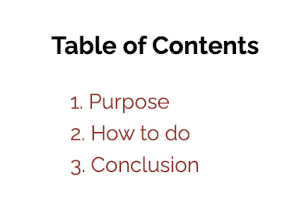
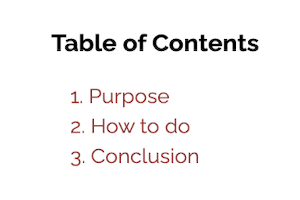
blog list

diff --git a/src/app/lib/component/blog-list/blog-list.component.scss b/src/app/lib/component/blog-list/blog-list.component.scss
@@ -1,39 +1,39 @@
 #list {
-    display: flex;
-    flex-direction: column;
-
     .item {
         margin-top: 2vw;
         display: flex;
         flex-direction: row;
-        height: 200px;
         background-color: var(--mat-sys-background);
         border-style: dashed;
         border-color: #e5e7eb;
         border-radius: 10px;
 
-        div:first-child {
-            display: flex;
-            width: 300px;
-            margin: 0px;
-            img {
-                border-radius: 10px;
-                width: 300px;
-                height: 100%;
-                object-fit: fill;
-            }
+        @media (max-width: 425px) {
+            flex-direction: column;
+            padding-top: 15px;
         }
 
-        div:nth-child(2) {
+        div:first-child {
             display: block;
-            padding: 0px 30px;
+            padding: 0px 2vw;
 
             h2 {
                 font-family: var(--mat-card-title-text-font, var(--mat-sys-title-large-font));
                 line-height: var(--mat-card-title-text-line-height, var(--mat-sys-title-large-line-height));
-                font-size: var(--mat-card-title-text-size, var(--mat-sys-title-large-size));
+                font-size: larger;
                 letter-spacing: var(--mat-card-title-text-tracking, var(--mat-sys-title-large-tracking));
                 font-weight: var(--mat-card-title-text-weight, var(--mat-sys-title-large-weight));
+
+                @media (max-width: 768px) {
+                    font-size: small;
+                    margin: 10px 0px 2px 0px;
+                    line-height: 18px;
+                }
+
+                @media (max-width: 425px) {
+                    font-size: larger;
+                    margin-bottom: 20px;
+                }
 
                 a {
                     color: purple;
@@ -45,30 +45,79 @@
             }
 
             span {
+                line-height: 3ex;
 
-                code {
-                    padding: 7px;
-                    background-color: var(--mat-sys-primary-container);
-                    border-radius: 5px;
-                    margin-right: 10px;
-                    color: rgb(141, 143, 139);
-                    user-select: all;
+                @media (max-width: 768px) {
+                    line-height: 2ex;
                 }
 
-                margin-bottom: 20px;
+                @media (max-width: 425px) {
+                    line-height: 3ex;
+                }
+
+                code {
+                    padding: 0px 7px;
+                    background-color: var(--mat-sys-primary-container);
+                    border-radius: 5px;
+                    margin-right: 5px;
+                    color: rgb(141, 143, 139);
+                    user-select: all;
+                    font-size: x-small;
+                    display: inline-block;
+
+                    @media (max-width: 768px) {
+                        padding: 0px 3px;
+                        margin-right: 5px;
+                        font-size: xx-small;
+                    }
+
+                    @media (max-width: 425px) {
+                        padding: 0px 5px;
+                        font-size: small;
+                    }
+                }
             }
 
             p {
                 text-align: justify;
-                margin-top: 30px;
+
+                @media (max-width: 768px) {
+                    font-size: small;
+                    margin-top: 10px 0px;
+                }
+
+                @media (max-width: 425px) {
+                    margin: 20px 0px;
+                    font-size: large;
+                }
+            }
+        }
+
+        .spacer {
+            flex: auto;
+        }
+
+        div:nth-child(3) {
+            margin: 0px;
+            text-align: center;
+
+            @media (max-width: 425px) {
+                width: 100%;
+                margin-top: 10px;
             }
 
             img {
-                width: 18px;
-                height: 18px;
-                margin-right: 5px;
-                display: inline-block;
-                vertical-align: middle;
+                border-radius: 10px;
+                width: 300px;
+                height: 100%;
+
+                @media (max-width: 768px) {
+                    width: 200px;
+                }
+
+                @media (max-width: 425px) {
+                    width: 100%;
+                }
             }
         }
 

diff --git a/src/app/lib/component/blog-list/blog-list.component.html b/src/app/lib/component/blog-list/blog-list.component.html
@@ -1,12 +1,9 @@
 <div id="list">
     @for (item of blogs(); track $index) {
-    <div class="item">
-        <div>
-            <img src="blog/img/{{item.attributes.image}}" />
-        </div>
+    <div class="item">        
         <div>
             <h2>
-                <a routerLink="/blog/angular/highlightjs">{{item.attributes.title}}</a>
+                <a routerLink="/blog/{{item.name}}">{{item.attributes.title}}</a>
             </h2>
             <span>
                 @for (key of item.attributes.tags; track $index) {
@@ -14,6 +11,10 @@
                 }
             </span>
             <p>{{item.attributes.summary}}</p>
+        </div>
+        <span class="spacer"></span>
+        <div>
+            <img src="blog/img/{{item.attributes.image}}" />
         </div>
 
     </div>

diff --git a/src/app/home/home.component.scss b/src/app/home/home.component.scss
@@ -148,15 +148,9 @@
     margin: 10vw auto auto auto;
     width: 70vw;
 
-    @media (max-width: 768px) {
-        width: 90vw;
-    }
-
-    @media (max-width: 425px) {
-        width: 98vw;
-    }
-
-    
+    @media (max-width: 1024px) {
+        width: 95vw;
+    }    
 }
 
 .firefly-container {

diff --git a/src/app/home/home.component.html b/src/app/home/home.component.html
@@ -25,10 +25,6 @@
 
 <div class="blogs">
     <app-blog-list></app-blog-list>
-
-
-    
-
 </div>
 
 <div class="greeting">

diff --git a/public/blog/angular/highlightjs.md b/public/blog/angular/highlightjs.md
@@ -1,9 +1,9 @@
 ---
 title: "Display a code block with HighlightJs"
 date: "01 Mar 2024"
-readingTime: 5 min read
+readingTime: 10 min read
 tags: [Angular, Directive, gist, Highlightjs, lineNumber, Copy Button]
-summary: "Creating an Angular directive to highlight code with copy button and line number."
+summary: "Using Highlightjs in an Angular App to hightlight code blocks with functions such as copy and line number."
 image: highlightjs.png
 ---
 

diff --git a/public/blog/angular/firefly.md b/public/blog/angular/firefly.md
@@ -3,7 +3,7 @@ title: "Display the colorful fireflies effect"
 date: "01 May 2024"
 readingTime: 3 min read
 tags: [Angular, SCSS]
-summary: "Using CSS to display colorful firefly effect in a background."
+summary: "Using CSS to create colorful fireflies flying in a background."
 image: firefly.png
 ---
 

diff --git a/public/blog/angular/content-table.md b/public/blog/angular/content-table.md
@@ -1,7 +1,7 @@
 ---
 title: "Display a Table of Contents"
 date: "01 Aug 2024"
-readingTime: 3 min read
+readingTime: 5 min read
 tags: [Angular, viewChild, Depth-first Search, scrollIntoView]
 summary: "Table of Contents lists all links of headings in a blog."
 image: content-table.png
